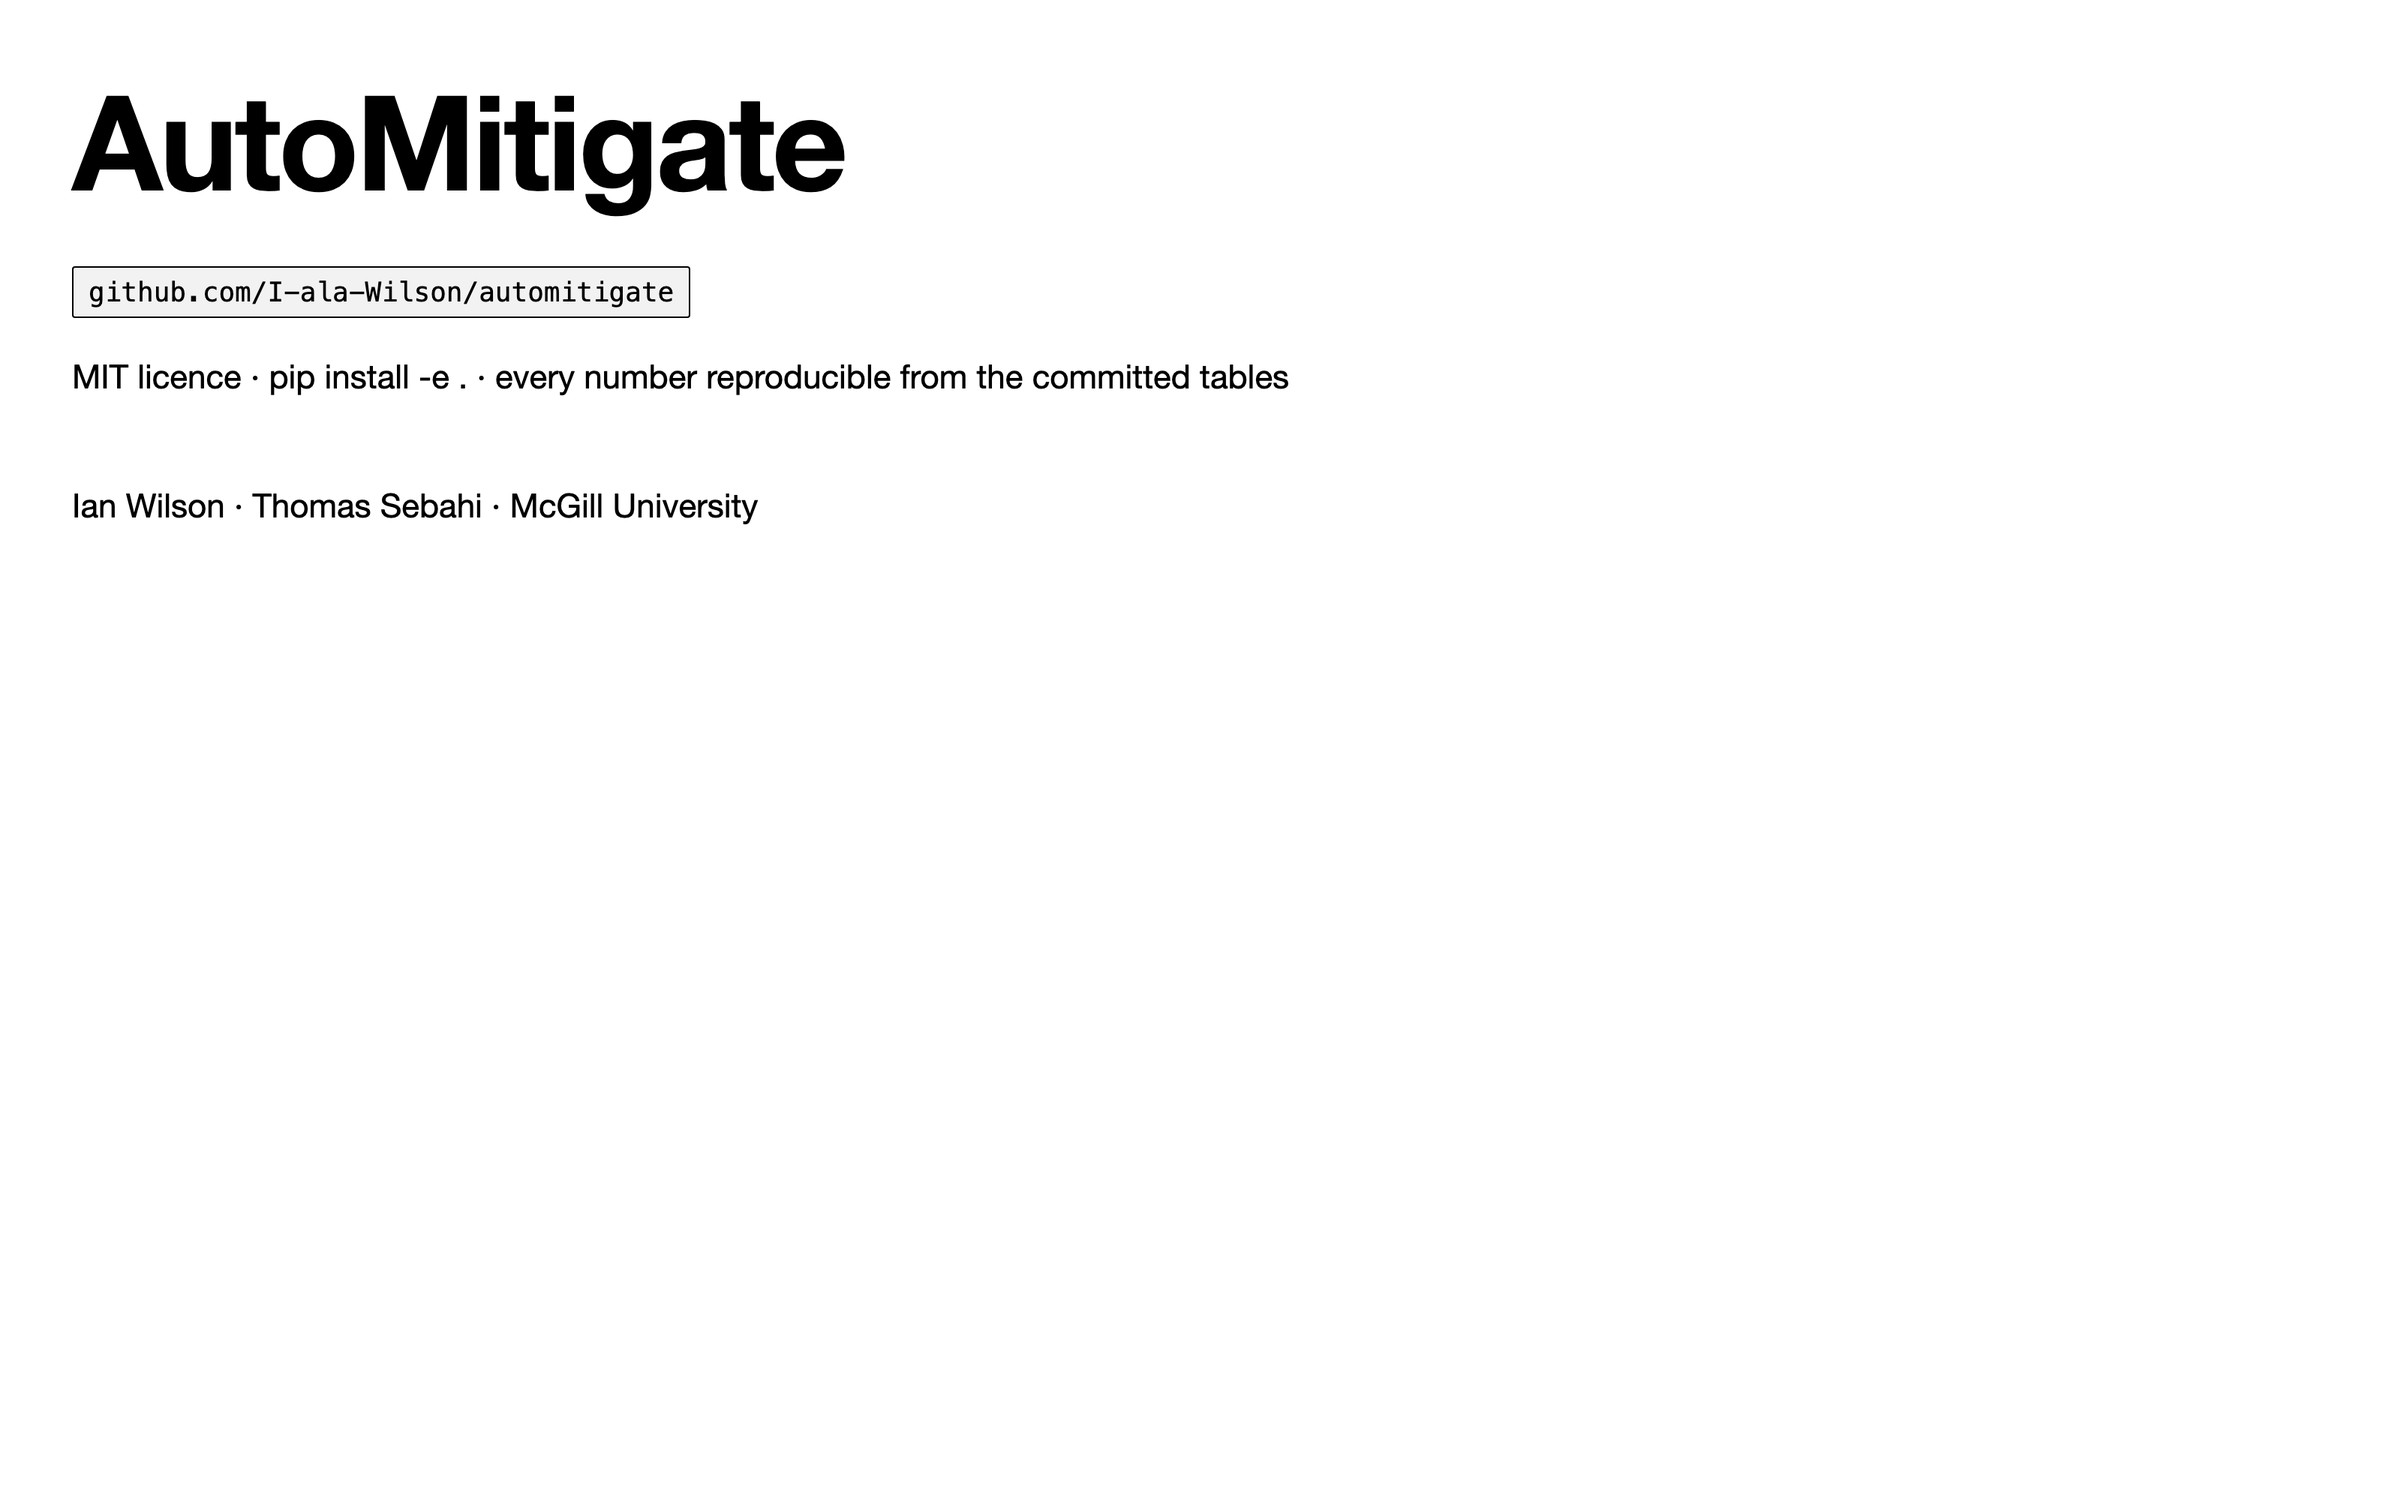
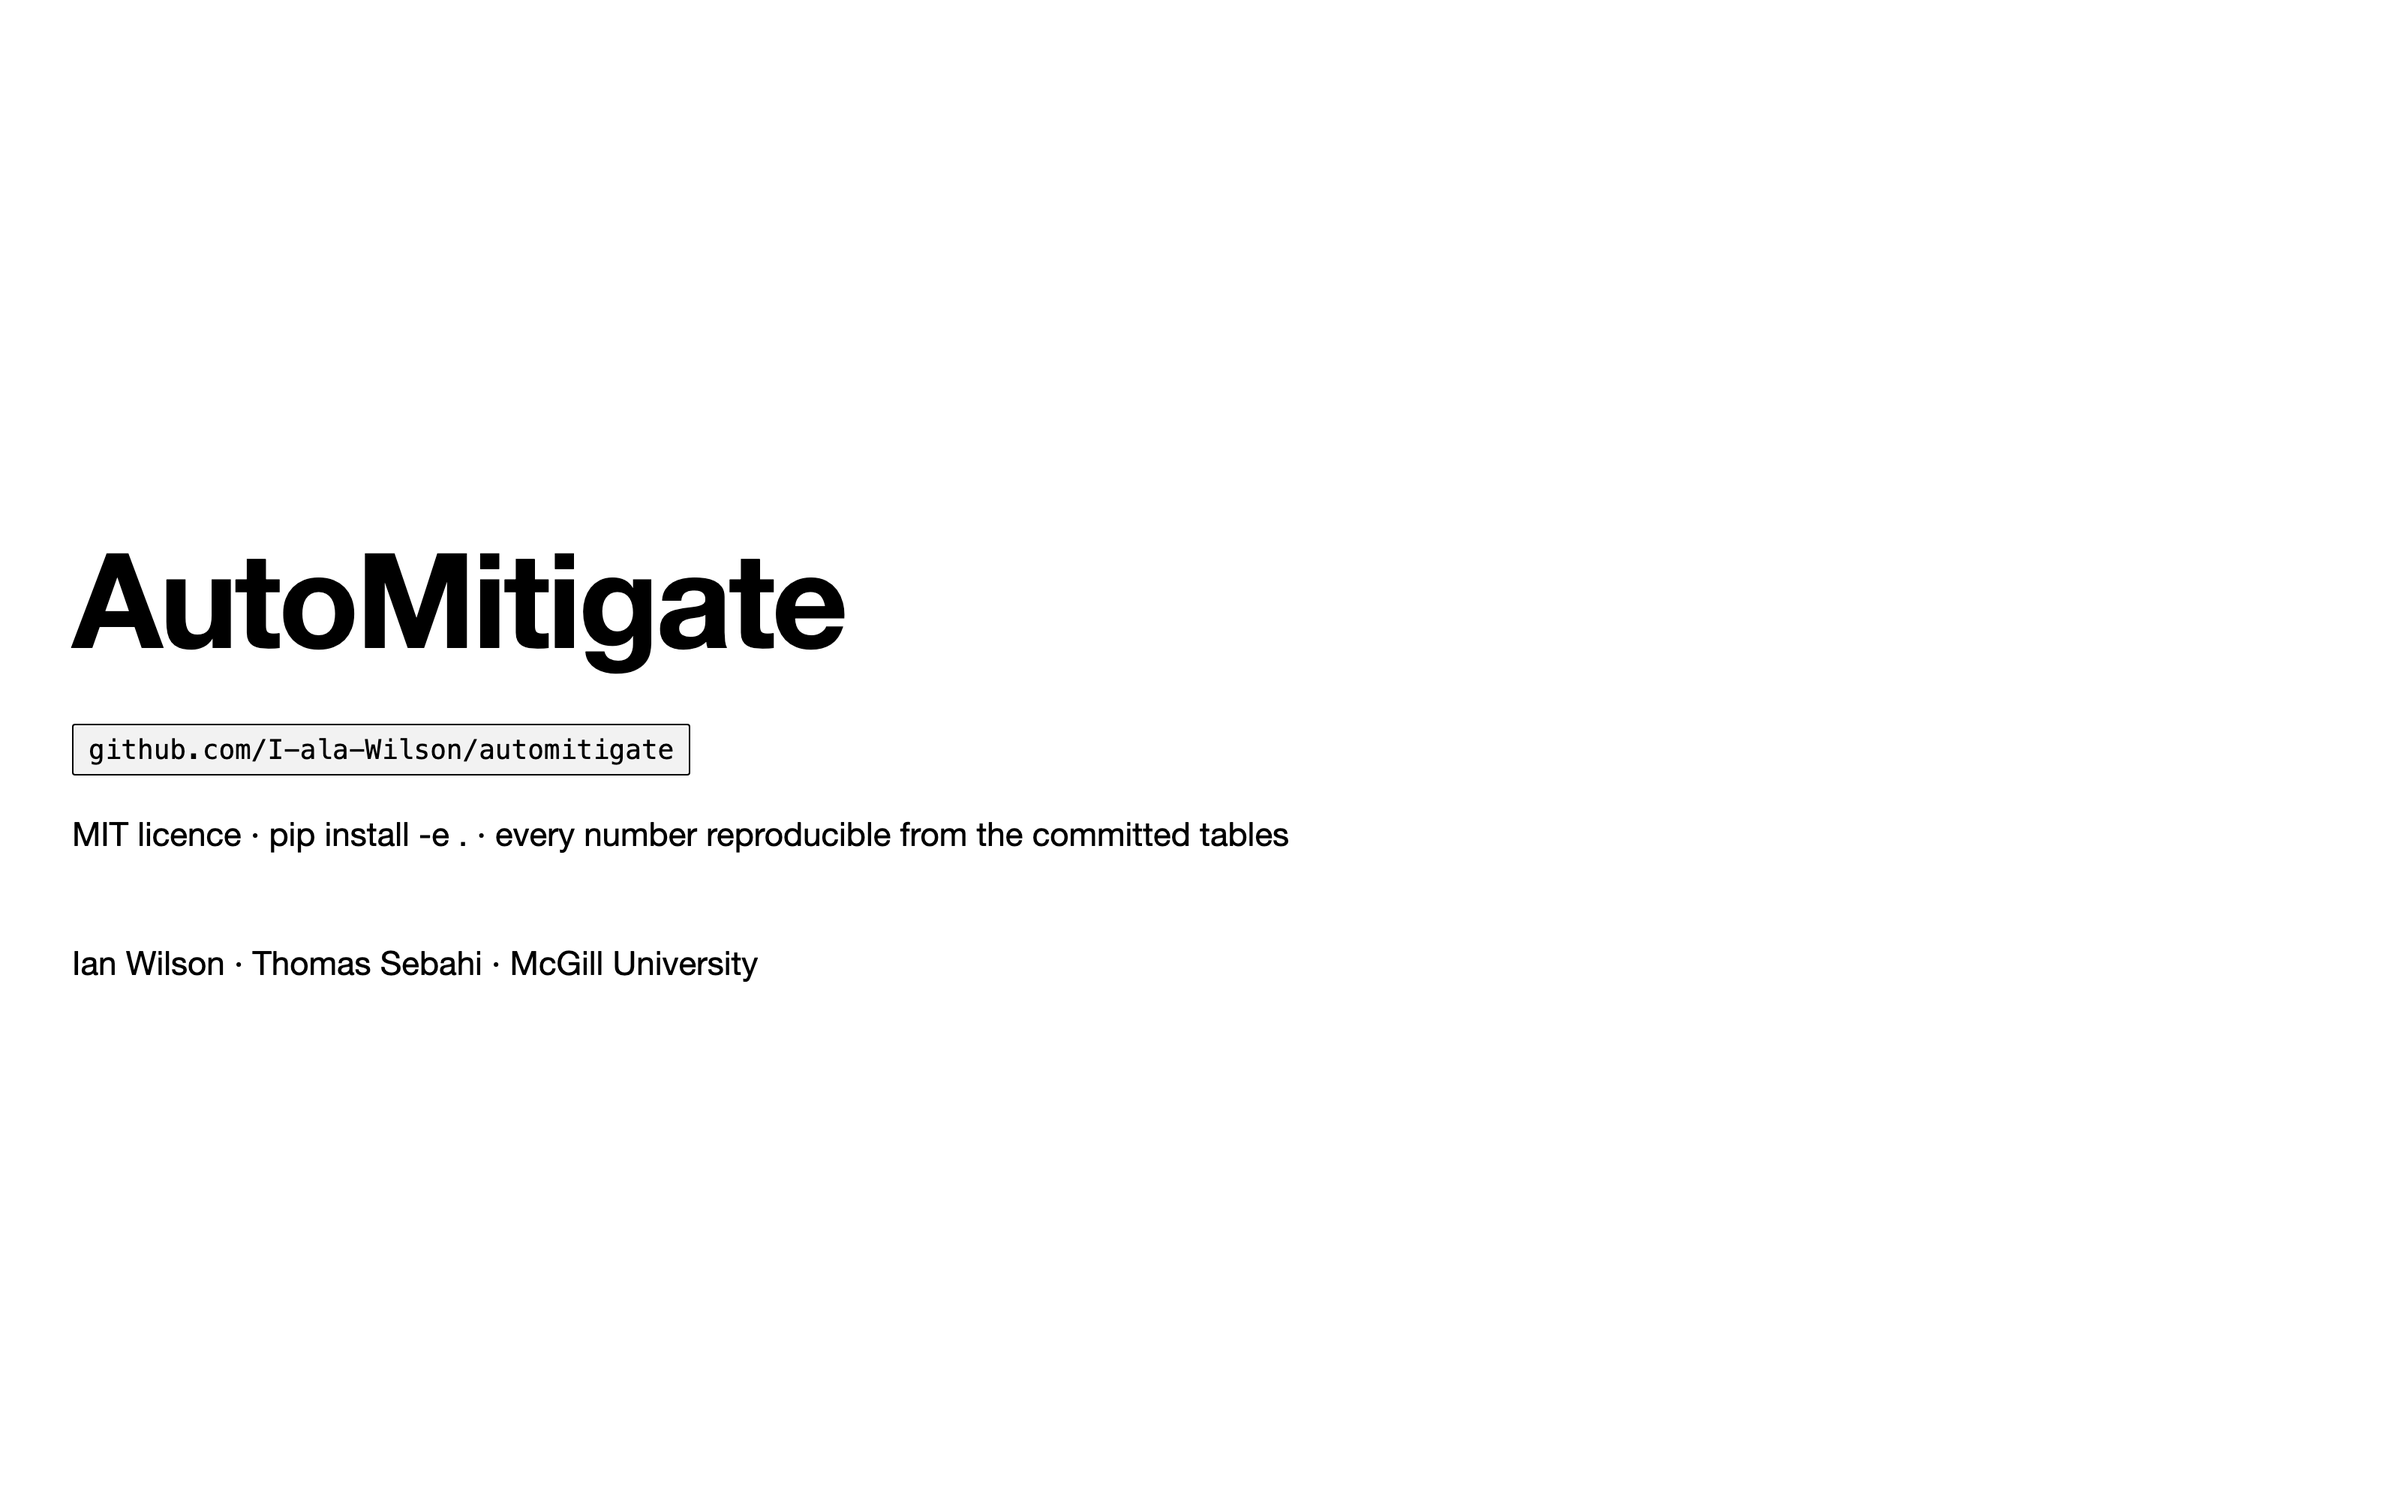
[ian] video slides: visual check fixes (1, 7, 12, 13, 16)

diff --git a/docs/video/src/gen2.py b/docs/video/src/gen2.py
@@ -18,7 +18,7 @@ def P(title, body, sub=""): return page(title, f'<div class="content">{body}</di
 def foot(n): return ""
 def framed(path, h=700, w=1500, fw=None): return f'<div class="center" style="margin-top:22px"><div class="frame"><img src="file://{path}" style="{"width:"+str(fw)+"px;" if fw else ""}max-width:{w}px;max-height:{h}px;display:block"></div></div>'
 s={}
-s["01-title"]=page("", f'''<div class="content" style="margin-top:0"><div style="margin-top:0"><div style="font-size:88px;font-weight:700;letter-spacing:-2px">AutoMitigate</div>
+s["01-title"]=page("", f'''<div class="content"><div><div style="font-size:88px;font-weight:700;letter-spacing:-2px">AutoMitigate</div>
 <div style="font-size:30px;margin-top:22px">A bandit that picks your error-mitigation settings for you.</div>
 <div class="chip" style="margin-top:40px;font-size:16px">Ian Wilson · Thomas Sebahi · McGill University</div></div></div>{foot("1 of 16")}''')
 def sketch(kind):
@@ -59,7 +59,7 @@ s["05-mirror"]=P("The score is a mirror circuit", f'''<div style="position:relat
 <text x="750" y="350" font-size="34" font-weight="700" text-anchor="middle">score = how often that bitstring comes out</text>
 <text x="750" y="410" font-size="24" text-anchor="middle">no ideal simulation needed</text></svg></div>{foot("5 of 16")}''')
 s["06-qollab-run"]=P("On Qollab", framed(f"{H}/shots/console_table.png", 780, 1500)+foot("6 of 16"), "GHZ-8 on nine months of real ibm_fez calibration data, one pull per day.")
-s["07-chart"]=P("What comes out", framed(f"{H}/shots/chart_0.png", 760, 1500)+foot("7 of 16"), "Regret = score lost by not pulling the day's best arm. Blue = our learner · orange = plain Thompson · green dashed = everything on · red = best fixed arm. Below: the arm picked each day.")
+s["07-chart"]=P("What comes out", framed(f"{H}/shots/chart_0.png", 760, 1500)+foot("7 of 16"), "Regret = score lost by not pulling the day's best arm. Below: the arm picked each day.")
 s["08-live-run"]=P("Then the circuit runs for real on the simulator you chose", f'''<div style="display:flex;gap:18px;margin-top:60px">
 <div class="card" style="flex:1;text-align:center;padding:90px 40px"><div class="k">0.82</div><div class="kl">raw</div></div>
 <div class="card" style="flex:1;text-align:center;padding:90px 40px"><div class="k">0.94</div><div class="kl">after readout mitigation</div></div>
@@ -70,7 +70,7 @@ s["10-best-arm"]=P("Every day the same arm", '<div style="display:grid;grid-temp
 rows="".join(f"<tr><td>{c}</td><td>{e}</td><td>{a7}</td><td><b>{p}</b></td></tr>" for c,e,a7,p in [("ghz4","1.60","4.46","64 %"),("ghz8","3.26","11.47","72 %"),("grover3","3.08","14.87","79 %"),("qaoa6","3.19","13.73","77 %"),("qft3","2.16","3.96","45 %")])
 s["11-regret-table"]=P("Finding that setting cheaply", f'''<div style="display:flex;gap:18px;margin-top:40px"><div class="card" style="flex:1;text-align:center;padding:60px 30px"><div class="k">45–79 %</div><div class="kl">less regret than switching everything on</div></div><div class="card" style="flex:1.3"><table style="font-size:24px;width:100%"><tr><th>circuit</th><th>ε-greedy learner</th><th>everything switched on (arm 7)</th><th>learner is lower by</th></tr>{rows}</table>
 <p style="margin-top:14px">regret = score lost vs always picking the best arm, over 240 days. Lower is better.</p></div></div>{foot("11 of 16")}''')
-s["12-proxy"]=P("Is the score honest?", framed(f"{REPO}/figures/proxy_per_day.png", 800, 1500, fw=1160)+foot("12 of 16"), "Per day: does the mirror score rank the arms like the real error? Rank agreement 0.6 to 0.9; its pick costs at most 8 % of the worst arm.")
+s["12-proxy"]=P("Is the score honest?", framed(f"{REPO}/figures/proxy_per_day.png", 800, 1500, fw=1160)+foot("12 of 16"), "Rank agreement between the mirror score and the real error, per day.")
 s["13-ionq"]=P("A different machine", framed(f"{H}/shots/chart_1.png", 760, 1500)+foot("13 of 16"), "IonQ-like model, noise jumps at step 150. Everything-on stays best; the gap is the cost of checking.")
 s["14-spot-check"]=P("Checked against Qollab's Aria-1 simulator", f'''<div style="display:flex;gap:18px;margin-top:60px">
 <div class="card" style="flex:1;text-align:center;padding:90px 40px"><div class="k">0.027</div><div class="kl">mean difference in P(target), our model vs Qollab's Aria-1 simulator</div></div>
@@ -79,7 +79,7 @@ s["15-caveat"]=P("One caveat", f'''<div style="display:flex;gap:18px;margin-top:
 <div class="card" style="flex:1;text-align:center;padding:90px 40px"><div class="k">9</div><div class="kl">best-arm switches on a middling chain of qubits</div></div>
 <div class="card" style="flex:1;text-align:center;padding:90px 40px"><div class="k">0.37 %</div><div class="kl">drift value there, vs under 0.01 % on the best chain</div></div></div>
 <div class="card" style="margin-top:18px"><p style="font-size:20px"><b>Tracking matters exactly where the hardware is worse.</b></p></div>{foot("15 of 16")}''')
-s["16-end"]=page("", f'''<div class="content" style="margin-top:0"><div style="margin-top:0"><div style="font-size:88px;font-weight:700;letter-spacing:-2px">AutoMitigate</div>
+s["16-end"]=page("", f'''<div class="content"><div><div style="font-size:88px;font-weight:700;letter-spacing:-2px">AutoMitigate</div>
 <div class="chip" style="margin-top:30px;font-size:18px">github.com/I-ala-Wilson/automitigate</div>
 <div style="font-size:22px;margin-top:26px">MIT licence · pip install -e . · every number reproducible from the committed tables</div>
 <div style="font-size:22px;margin-top:60px">Ian Wilson · Thomas Sebahi · McGill University</div></div></div>{foot("16 of 16")}''')

diff --git a/docs/video/HANDOFF.md b/docs/video/HANDOFF.md
@@ -13,7 +13,7 @@ Ian's wifi is too poor to continue; Thomas (and his assistant) finish the video 
 2. Every title sits at the top-left at the same height on every slide; the content is centred in the space below. (Done in the current render; verify.)
 3. Caption words only where they make the slide clearer; otherwise none. The current captions are already cut down; cut further if a line adds nothing.
 4. No footer line, no "n of 16". Files are just 01 to 16.
-5. Check all 16 for visual errors and inconsistencies: nothing bleeding outside a card (slide 3 was fixed), numbers aligned across cards (slide 8 was fixed), fonts and card borders identical, no clipped text.
+5. Visual check done by Ian's assistant at 16:10 on all 16: titles top-left at one height, content centred, nothing clipped or bleeding, slide 13's legend moved above the strip, slides 1 and 16 centred. Re-check only if you re-render.
 6. Fill the frame: no slide should be mostly empty.
 7. Slides must show the results: 7 (demo regret chart), 9 (drift value), 10 (best arm per day, all five circuits), 11 (regret table), 12 (proxy validation), 13 (IonQ-like run), 14 (spot check), 15 (median-chain caveat).
 
